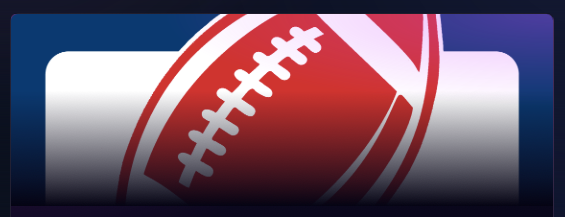
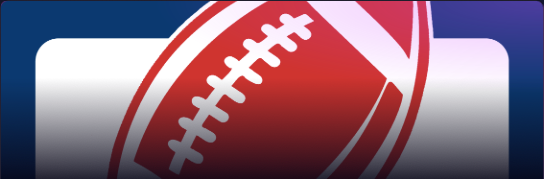
Refactor LandingFooter, MarketMosaic, PhoneStory, and PlayLanding components for improved layout and functionality
- Updated LandingFooter to use dynamic padding based on the sticky play bar height for consistent spacing.
- Removed unused image import in MarketMosaic and adjusted card image scaling for better visual presentation.
- Enhanced PhoneStory with a running state to control scene playback and added intersection observer for improved performance.
- Updated PlayLanding to publish the sticky play bar height dynamically, ensuring consistent layout across devices.

diff --git a/src/components/play-landing/PhoneStory.tsx b/src/components/play-landing/PhoneStory.tsx
@@ -1,5 +1,5 @@
 import { AnimatePresence, motion } from "framer-motion";
-import { useEffect, useState } from "react";
+import { useCallback, useEffect, useRef, useState } from "react";
 
 import { Explosion } from "./Explosion";
 
@@ -34,12 +34,20 @@ function StepLabel({ children }: { children: React.ReactNode }) {
 
 /* ---------------- scene 1 : market cards ---------------- */
 
-function SceneMarkets({ onDone }: { onDone: () => void }) {
+function SceneMarkets({ onDone, running }: { onDone: () => void; running: boolean }) {
   const [index, setIndex] = useState(0);
   const [picked, setPicked] = useState(false);
 
+  /* Rewind whenever the story is parked, so it always replays from card one. */
+  useEffect(() => {
+    if (running) return;
+    setIndex(0);
+    setPicked(false);
+  }, [running]);
+
   /* Auto-play: card slides in → outcome gets picked → next card → hand over. */
   useEffect(() => {
+    if (!running) return;
     const t = setTimeout(
       () => {
         if (!picked) {
@@ -54,7 +62,7 @@ function SceneMarkets({ onDone }: { onDone: () => void }) {
       picked ? 1400 : 1900,
     );
     return () => clearTimeout(t);
-  }, [index, picked, onDone]);
+  }, [index, picked, onDone, running]);
 
   const card = STORY_CARDS[index];
 
@@ -176,18 +184,39 @@ function ScenePodium() {
 
 export function PhoneStory({ className }: { className?: string }) {
   const [scene, setScene] = useState(0);
-  const next = () => setScene((s) => (s + 1) % SCENES.length);
+  const next = useCallback(() => setScene((s) => (s + 1) % SCENES.length), []);
+
+  /* The story is a loop, but it only runs while the phone is on screen: the
+     whole landing mounts at once, so without this gate the three scenes had
+     already played themselves out by the time you scrolled down here — which
+     is what made it look dead on mobile. Leaving the section parks it back on
+     scene 01 so the next visit replays the process from the top. */
+  const rootRef = useRef<HTMLDivElement>(null);
+  const [running, setRunning] = useState(false);
+  useEffect(() => {
+    const el = rootRef.current;
+    if (!el) return;
+    const io = new IntersectionObserver(
+      ([entry]) => setRunning(entry.isIntersecting),
+      { threshold: 0.25 },
+    );
+    io.observe(el);
+    return () => io.disconnect();
+  }, []);
+  useEffect(() => {
+    if (!running) setScene(0);
+  }, [running]);
 
   /* Duel and podium scenes advance on their own after their SCENES duration;
      the forecast scene (0) drives itself and calls `next` when its cards are done. */
   useEffect(() => {
-    if (scene === 0) return;
+    if (!running || scene === 0) return;
     const t = setTimeout(next, SCENES[scene]);
     return () => clearTimeout(t);
-  }, [scene]);
+  }, [scene, running, next]);
 
   return (
-    <div className={`relative mx-auto -mt-6 w-[min(340px,88vw)] shrink-0 sm:mt-0 sm:w-[clamp(197px,calc((100svh_-_21rem)*0.547),372px)] ${className ?? ""}`}>
+    <div ref={rootRef} className={`relative mx-auto -mt-6 w-[min(340px,88vw)] shrink-0 sm:mt-0 sm:w-[clamp(197px,calc((100svh_-_21rem)*0.547),372px)] ${className ?? ""}`}>
       <div
         aria-hidden="true"
         className="pointer-events-none absolute -inset-8 rounded-[3.5rem] bg-[radial-gradient(circle_at_50%_30%,rgba(236,72,153,0.35),rgba(99,102,241,0.18)_55%,transparent_75%)] blur-2xl"
@@ -207,7 +236,7 @@ export function PhoneStory({ className }: { className?: string }) {
               transition={{ duration: 0.35 }}
               className="absolute inset-0 pt-9 pb-7"
             >
-              {scene === 0 ? <SceneMarkets onDone={next} /> : null}
+              {scene === 0 ? <SceneMarkets onDone={next} running={running} /> : null}
               {scene === 1 ? <SceneDuel /> : null}
               {scene === 2 ? <ScenePodium /> : null}
             </motion.div>

diff --git a/src/components/play-landing/PlayLanding.tsx b/src/components/play-landing/PlayLanding.tsx
@@ -183,8 +183,27 @@ export function PlayLanding() {
   const revealHero = React.useCallback(() => setIntroRevealed(true), []);
   const finishIntro = React.useCallback(() => setIntroDone(true), []);
 
+  // The sticky play bar overlays the bottom of every section. Publishing its
+  // real height as `--play-bar-h` lets each card reserve exactly that much
+  // extra bottom padding, so the visible gap above and below the content is
+  // the same on every screen (see GradientCard).
+  const barRef = useRef<HTMLDivElement>(null);
+  useEffect(() => {
+    const el = barRef.current;
+    if (!el) return;
+    const publish = () => {
+      el.closest("main")?.style.setProperty("--play-bar-h", `${el.offsetHeight}px`);
+    };
+    publish();
+    const ro = new ResizeObserver(publish);
+    ro.observe(el);
+    return () => ro.disconnect();
+  }, []);
+
   return (
-    <main className="play-landing relative h-screen overflow-y-scroll overflow-x-hidden scroll-smooth">
+    // `h-[100svh]`, not `h-screen`: on mobile the 100vh scroll box runs under
+    // the browser chrome, which pushed every section's bottom out of sight.
+    <main className="play-landing relative h-[100svh] overflow-y-scroll overflow-x-hidden scroll-smooth">
       {/* ---------------- HERO ---------------- */}
       <Section gate={introRevealed}>
         <GradientCard
@@ -387,16 +406,20 @@ export function PlayLanding() {
 
       {/* ---------------- STICKY BOTTOM PLAY BAR ---------------- */}
       <div
+        ref={barRef}
         className={`fixed bottom-0 left-0 right-0 z-50 border-t border-white/20 bg-white/10 px-4 pt-4 pb-[max(1.1rem,calc(env(safe-area-inset-bottom)+0.6rem))] backdrop-blur-md transition-opacity duration-1000 ease-out sm:px-4 sm:py-5 ${
           introRevealed ? "opacity-100" : "pointer-events-none opacity-0"
         }`}
       >
         <div className="mx-auto grid max-w-6xl grid-cols-[minmax(0,1fr)_auto] items-center gap-3 sm:flex sm:justify-between sm:gap-4">
           <div className="min-w-0">
-            <p className="truncate font-display text-[0.95rem] font-black uppercase leading-tight tracking-wide text-white sm:text-xl">
-              NO BETS. NO GAMBLING.
-            </p>
-            <p className="mt-0.5 truncate text-[0.78rem] text-white/80 sm:mt-0 sm:text-sm">
+            <span
+              aria-label="Jameye"
+              className="jameye-wordmark block whitespace-nowrap text-[1.3rem] sm:text-[1.75rem]"
+            >
+              JAMEYE<sup className="reg">®</sup>
+            </span>
+            <p className="mt-1 truncate text-[0.78rem] text-white/80 sm:text-sm">
               <span className="sm:hidden">Free to play · No download</span>
               <span className="hidden sm:inline">Free to play. No download required.</span>
             </p>
@@ -472,7 +495,11 @@ function GradientCard({
   return (
 
     <div
-      className={`relative flex min-h-[100svh] w-full flex-col items-center justify-center overflow-hidden px-5 pb-[calc(9.5rem+env(safe-area-inset-bottom))] sm:px-8 sm:py-28 ${videoBackground ? "pt-20 sm:pt-28" : "pt-14"} ${gradient}`}
+      /* Mobile: the top gap and the gap left under the sticky play bar are the
+         same 2.25rem, so every section's content reads as vertically centred
+         in the space you can actually see. `--play-bar-h` is measured live in
+         PlayLanding; the literal is the fallback for the first paint. */
+      className={`relative flex min-h-[100svh] w-full flex-col items-center justify-center overflow-hidden px-5 pt-9 pb-[calc(var(--play-bar-h,5.5rem)+2.25rem)] sm:px-8 sm:py-28 ${gradient}`}
     >
       {videoBackground ? (
         <>

diff --git a/src/components/play-landing/MarketMosaic.tsx b/src/components/play-landing/MarketMosaic.tsx
@@ -7,7 +7,6 @@ import img199 from "./assets/markets/market-199.webp?url";
 import img200 from "./assets/markets/market-200.webp?url";
 import img201 from "./assets/markets/market-201.webp?url";
 import img202 from "./assets/markets/market-202.webp?url";
-import img203 from "./assets/markets/market-203.png?url";
 import img204 from "./assets/markets/market-204.png?url";
 import img205 from "./assets/markets/market-205.png?url";
 import img206 from "./assets/markets/market-206.png?url";
@@ -91,9 +90,10 @@ export const CARDS: MarketCard[] = [
     bar: "linear-gradient(90deg,#3B82F6,#EC4899)",
   },
   {
+    // No photo: the only asset on hand was an unrelated, low-resolution portrait,
+    // so this one falls back to the branded gradient + emoji tile.
     title: "Anthropic IPO by ___?",
     emoji: "🤖",
-    image: img203,
     count: "3 outcomes",
     outcomes: [
       { label: "December 31, 2026", pct: 89 },
@@ -163,7 +163,15 @@ export function Card({ card, pick = null }: { card: MarketCard; pick?: number | 
       {/* Large, fixed image area like the game-section cards */}
       <div className="relative aspect-[16/10] w-full shrink-0 overflow-hidden rounded-xl ring-1 ring-black/10 sm:aspect-auto sm:min-h-[140px] sm:flex-1 sm:shrink">
         {card.image ? (
-          <img src={card.image} alt="" className="h-full w-full object-cover" loading="lazy" decoding="async" />
+          /* Scaled up a touch: several source photos ship with a thin black
+             letterbox edge, and the overflow-hidden parent crops it away. */
+          <img
+            src={card.image}
+            alt=""
+            className="h-full w-full scale-[1.06] object-cover"
+            loading="lazy"
+            decoding="async"
+          />
         ) : (
           <div
             className="flex h-full w-full items-center justify-center text-[3rem] sm:text-[5rem]"

diff --git a/src/components/play-landing/LandingFooter.tsx b/src/components/play-landing/LandingFooter.tsx
@@ -4,7 +4,7 @@ import { CONTACT_EMAIL, TELEGRAM_URL } from "../../config";
 /** Site footer for the play landing: oversized wordmark + legal links. */
 export function LandingFooter() {
   return (
-    <footer className="play-footer relative w-full snap-start overflow-hidden bg-[#05060F] px-5 pt-12 pb-[calc(8.5rem+env(safe-area-inset-bottom))] text-center sm:px-8 sm:pt-16 sm:pb-[calc(9.5rem+env(safe-area-inset-bottom))]">
+    <footer className="play-footer relative w-full snap-start overflow-hidden bg-[#05060F] px-5 pt-12 pb-[calc(var(--play-bar-h,5.5rem)+2.25rem)] text-center sm:px-8 sm:pt-16 sm:pb-[calc(var(--play-bar-h,5.5rem)+3rem)]">
       <div
         aria-hidden="true"
         className="pointer-events-none absolute inset-x-0 top-0 h-px bg-gradient-to-r from-transparent via-white/40 to-transparent"
